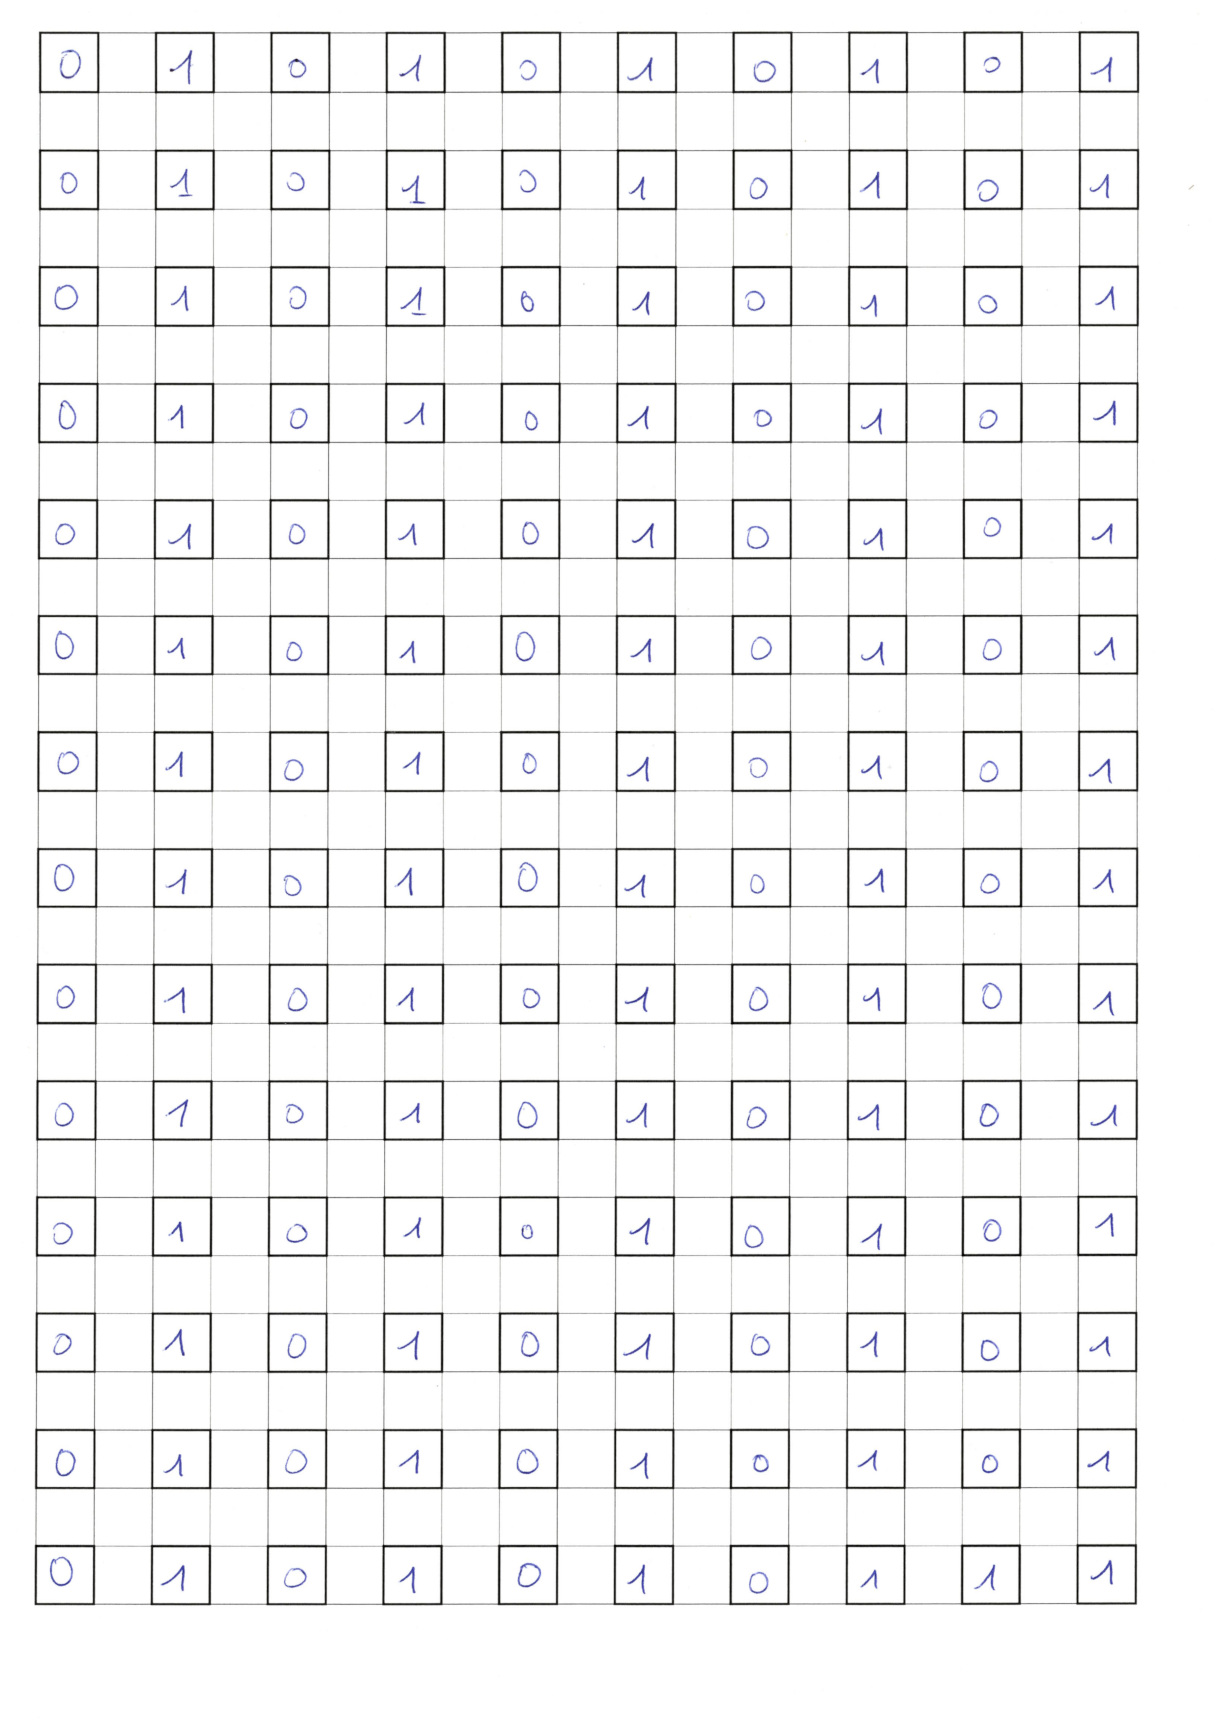
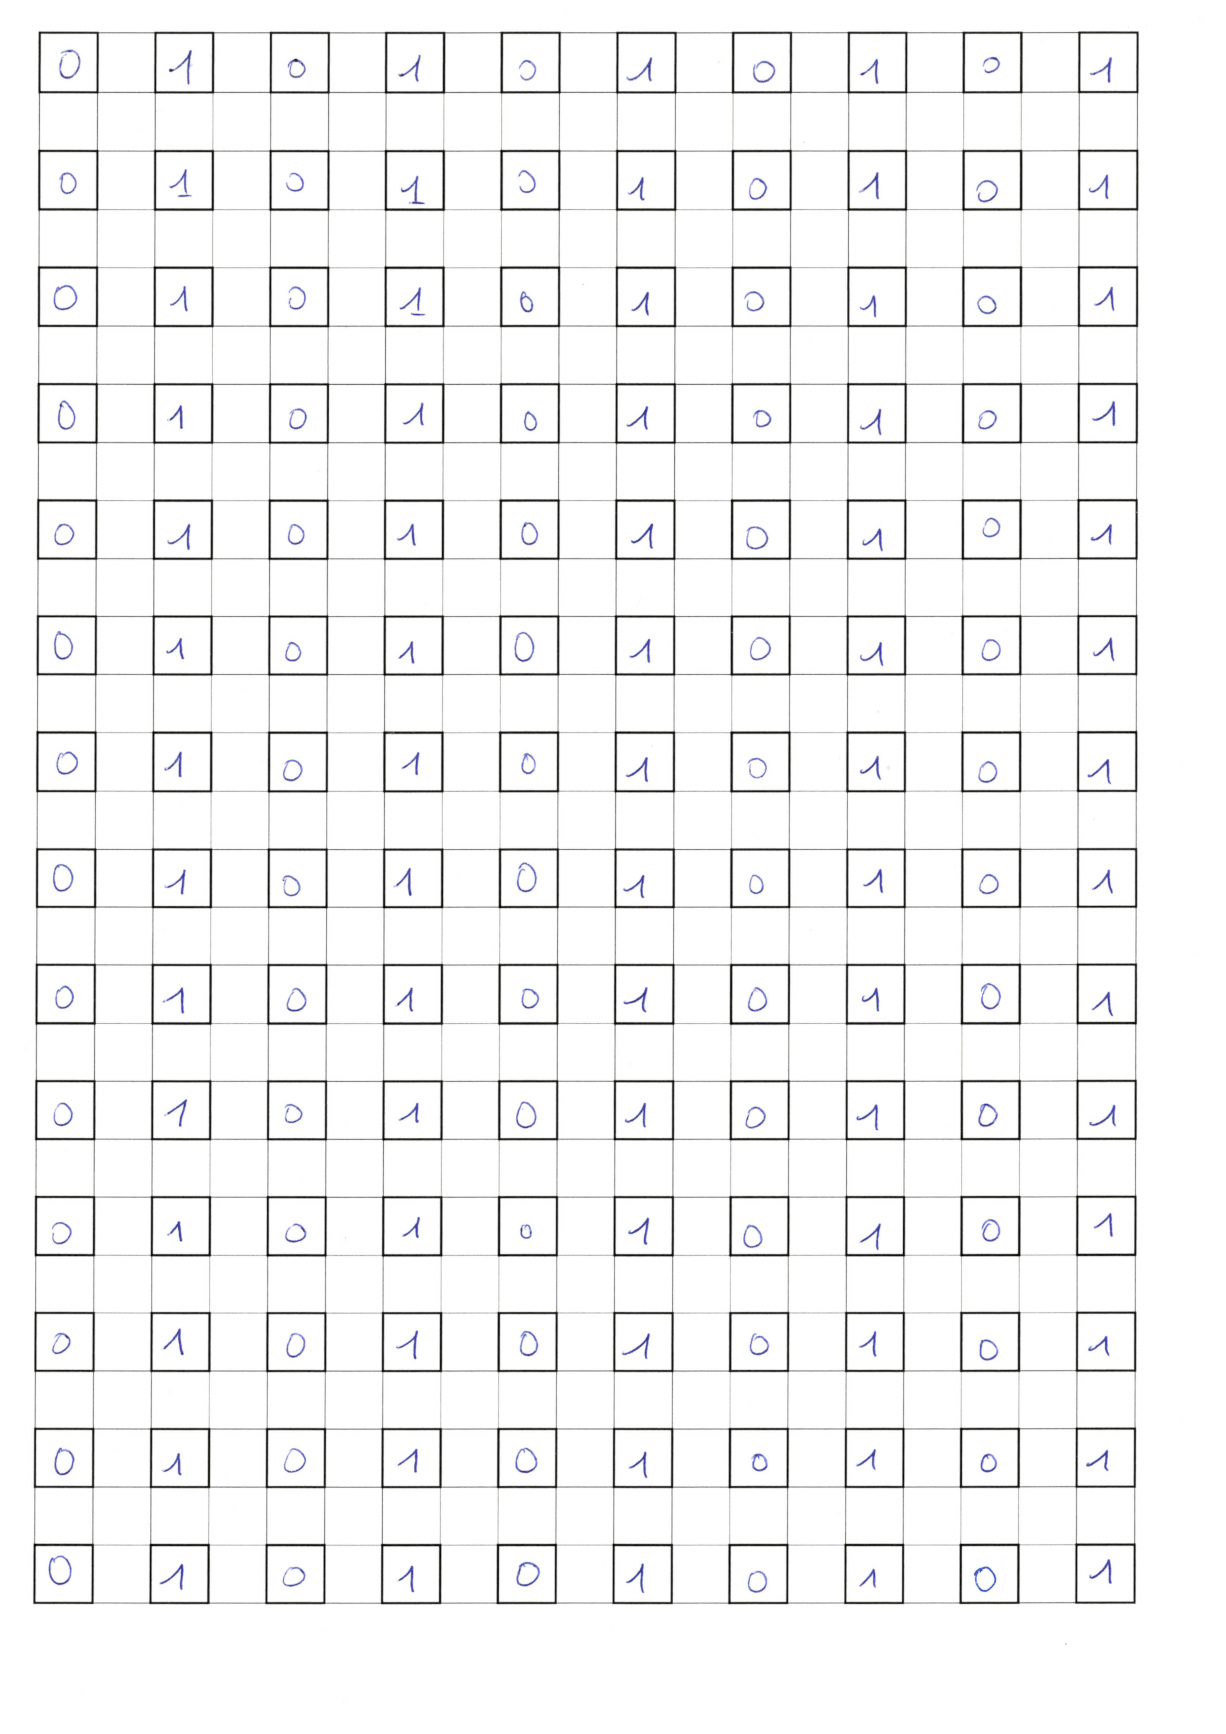
Update code for 0s and 1s + fix JPEG input file

diff --git a/cvMap.cpp b/cvMap.cpp
@@ -24,7 +24,7 @@ int main(int argc, char* argv[])
     int num = 16; // résolution des images binaires finales
     Mat src, srcColor, srcColor2;
 
-    src = imread("../img/in/letters/BnEs.jpg", IMREAD_GRAYSCALE);
+    src = imread("../img/in/figures/0n1s.jpg", IMREAD_GRAYSCALE);
     if (src.empty())
     {
         cerr << "Erreur de chargement de l'image !" << endl;
@@ -114,7 +114,7 @@ int main(int argc, char* argv[])
     extractROIs(src, horizontal_rhos, vertical_rhos, reject, rois);
 
     // 4/ Augmentation des imagettes (ROIs)
-    augmentROIs(rois, 10); // scale factor between 1 and 10
+    augmentROIs(rois, 1); // scale factor between 1 and 10
 
     // 5/ Afficher les imagettes extraites
     for (size_t k = 0; k < rois.size(); ++k) {
